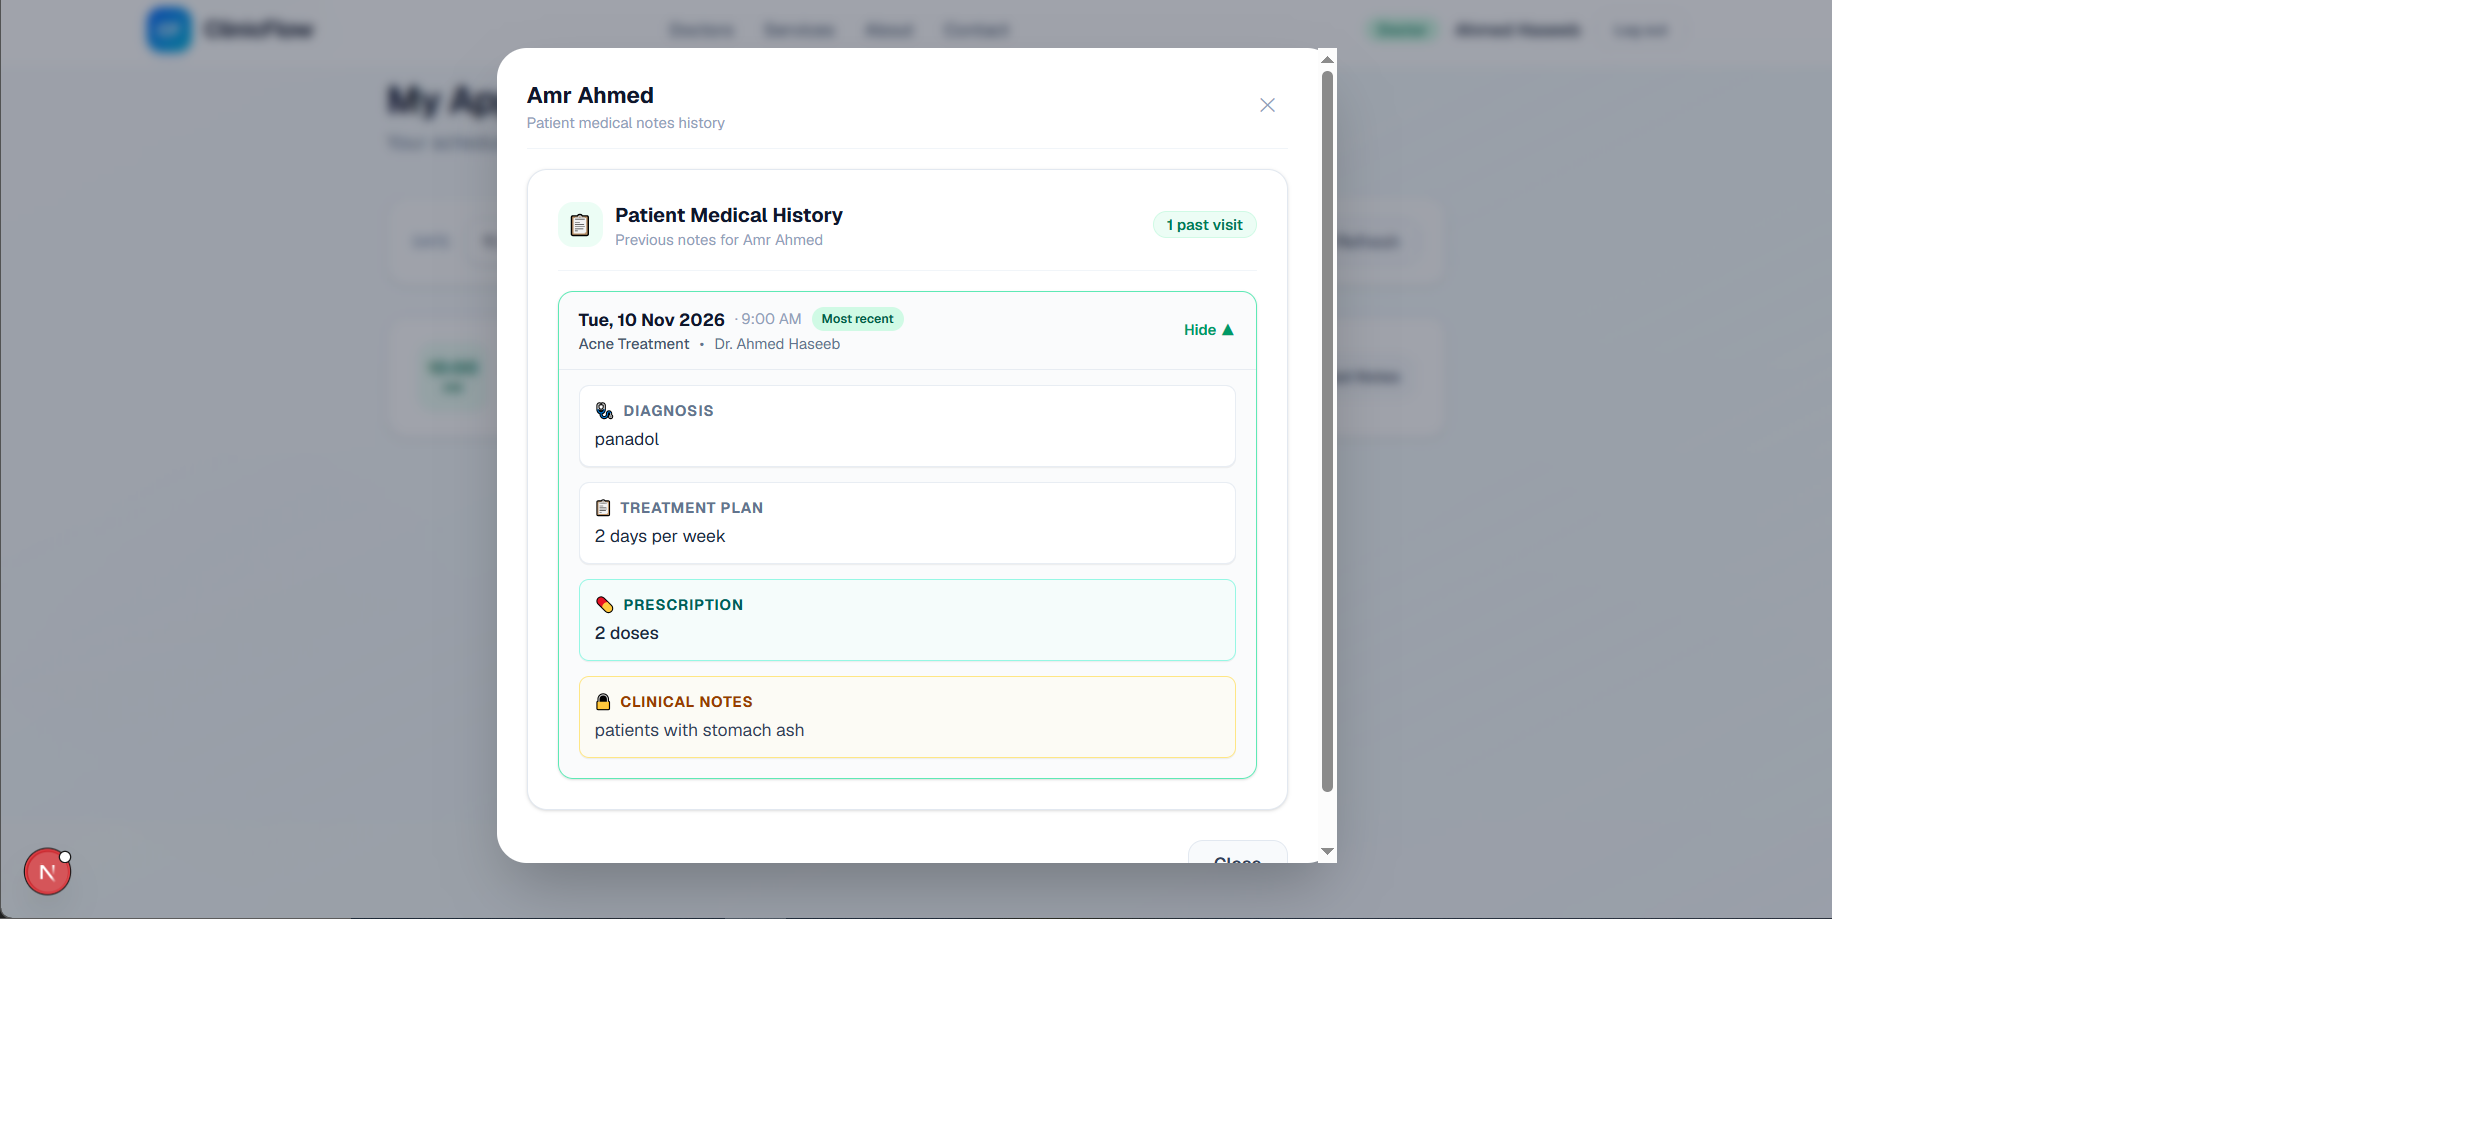
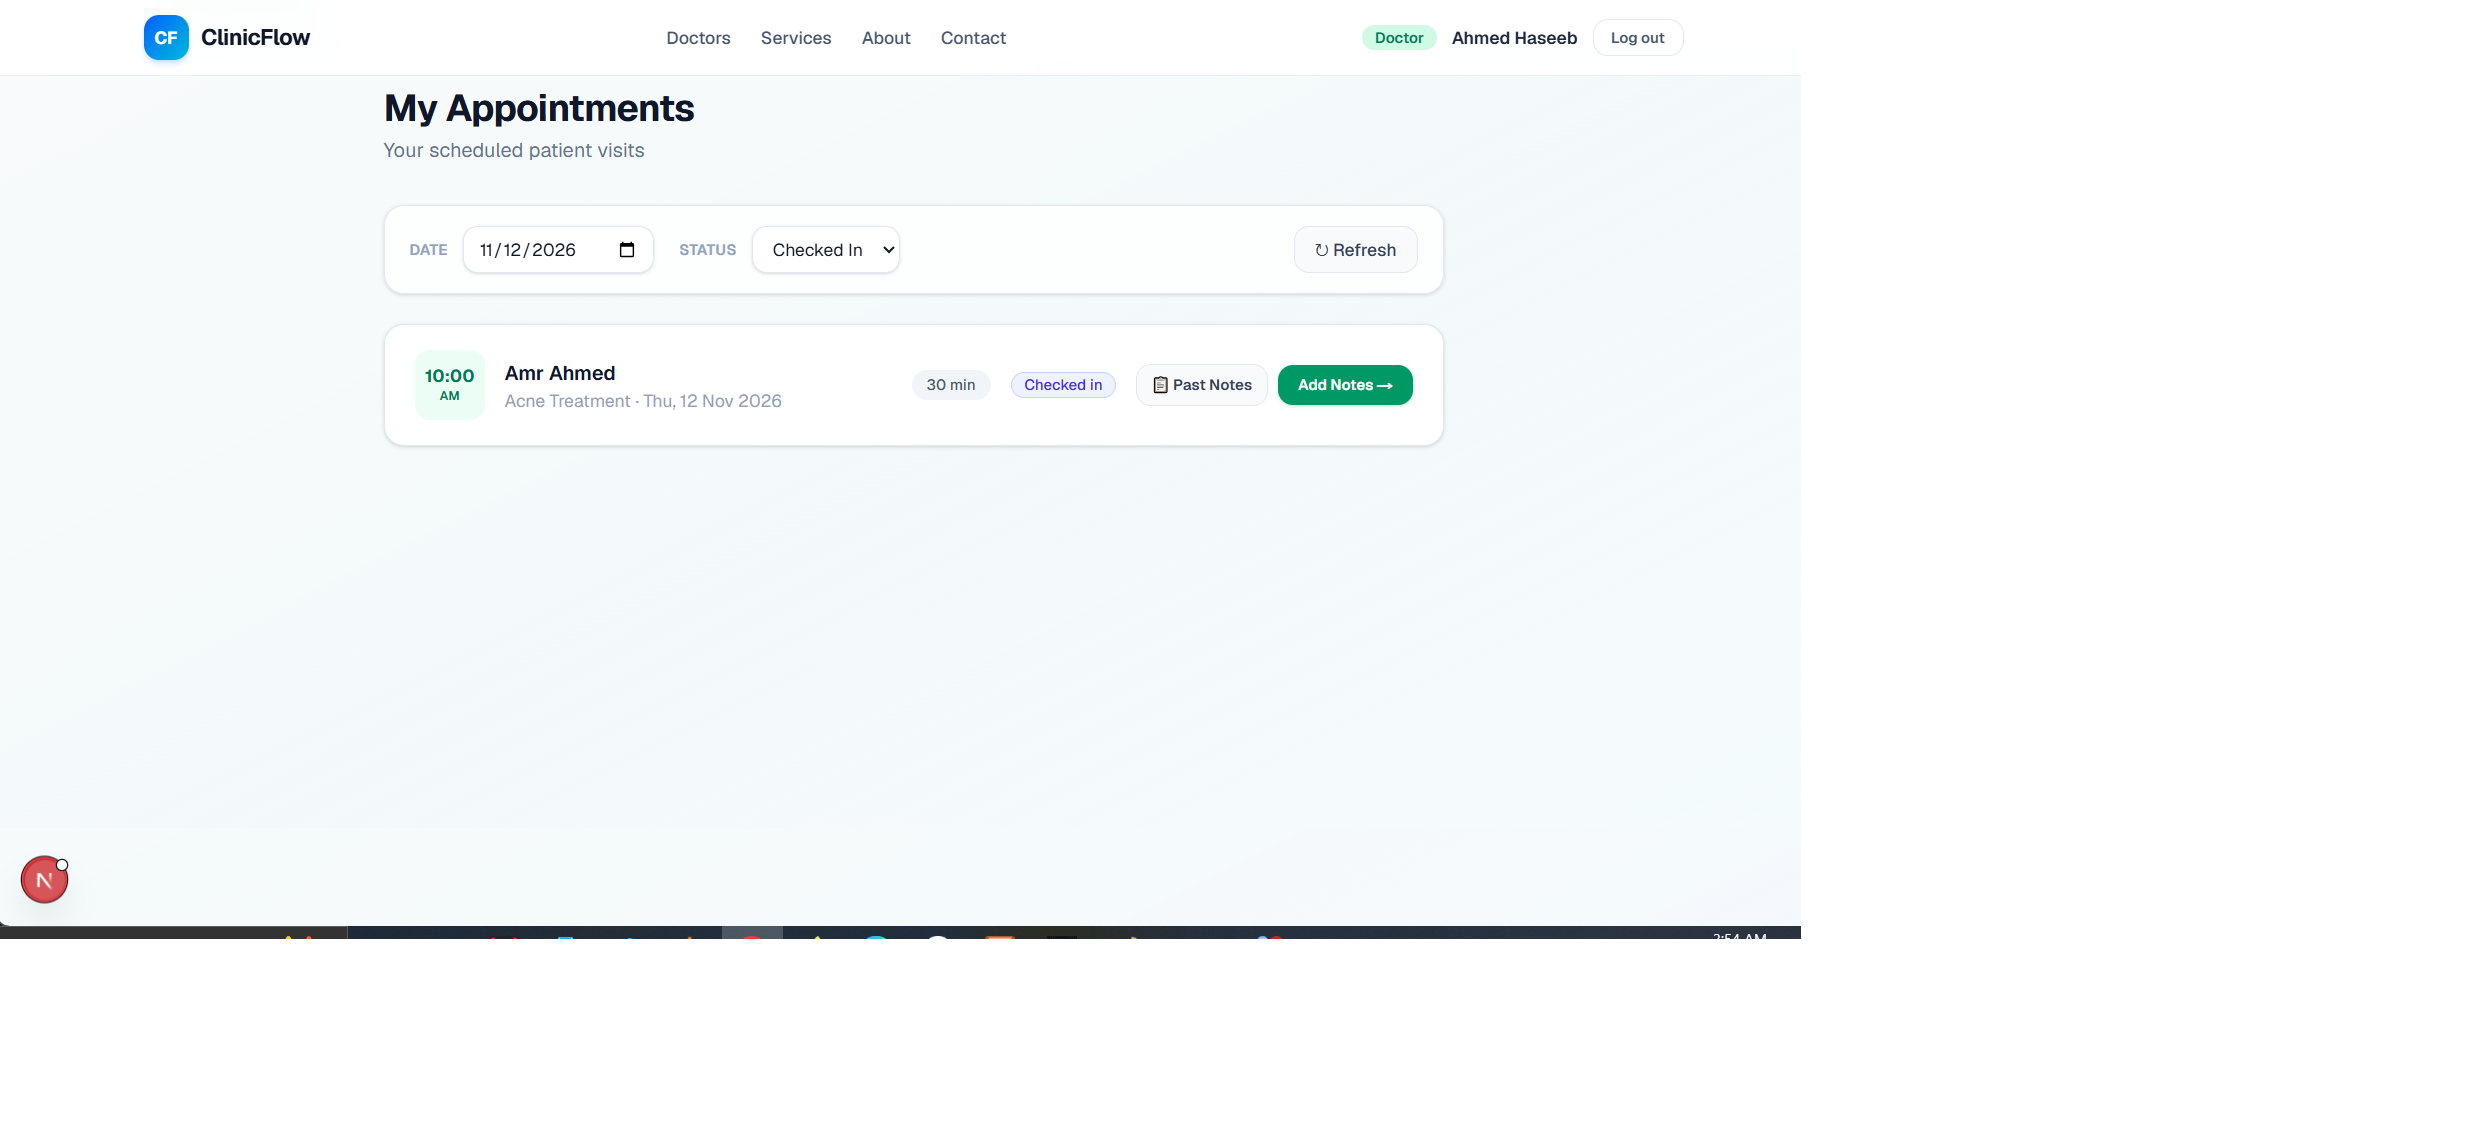
Fix screenshot order and image filenames in README to match end-to-end clinic workflow

diff --git a/README.md b/README.md
@@ -8,32 +8,36 @@ Built to model a real clinic's workflow rather than a generic CRUD app: business
 
 ### From booking to consultation
 
-| 1. Selection is kept before login | 2. Back at the booking after login |
+| 1. Selection is kept before login | 2. Appointment requested |
 |---|---|
-| ![Booking before login](docs/screenshots/booking-before-login.png) | ![Booking after login](docs/screenshots/booking-after-login.png) |
+| ![Booking before login](docs/screenshots/booking-before-login.png) | ![Appointment requested](docs/screenshots/patient-appointment-requested.png) |
 
-| 3. Secretary receives the request | 4. Secretary actions after confirming |
+| 3. Patient receives request email | 4. Secretary receives the request |
 |---|---|
-| ![Request received](docs/screenshots/secretary-request-received.png) | ![Secretary actions](docs/screenshots/secretary-actions-after-confirm.png) |
+| ![Request email](docs/screenshots/patient-email-request.png) | ![Secretary request received](docs/screenshots/secretary-request-received.png) |
 
-| 5. Patient gets the confirmation email | 6. Doctor adds notes and sees patient history |
+| 5. Secretary actions after confirming | 6. Patient gets confirmation email |
 |---|---|
-| ![Confirmation email](docs/screenshots/patient-email-confirmed.png) | ![Doctor notes](docs/screenshots/doctor-adding-and-viewing-notes.png) |
+| ![Secretary actions](docs/screenshots/secretary-actions-after-confirm.png) | ![Confirmation email](docs/screenshots/patient-email-confirmed.png) |
+
+| 7. Doctor appointments dashboard | 8. Quick-view past notes modal |
+|---|---|
+| ![Doctor appointments](docs/screenshots/doctor-appointments.png) | ![Doctor past notes modal](docs/screenshots/doctor-past-notes-modal.png) |
+
+| 9. Doctor consultation & patient history | 10. Patient appointments portal |
+|---|---|
+| ![Doctor consultation notes](docs/screenshots/doctor-adding-and-viewing-notes.png) | ![Patient appointments](docs/screenshots/patient-appointments.png) |
 
 <details>
-<summary>More screenshots (6)</summary>
+<summary>More screenshots (Authentication & Password Reset)</summary>
 
-| Patient appointments | Doctor appointments |
+| Login | Forgot password |
 |---|---|
-| ![Patient appointments](docs/screenshots/patient-appointments.png) | ![Doctor appointments](docs/screenshots/doctor-appointments.png) |
+| ![Login](docs/screenshots/login.png) | ![Forgot password](docs/screenshots/forgot-password.png) |
 
-| Doctor notes view | Login |
+| Verification code email | |
 |---|---|
-| ![Notes view](docs/screenshots/doctor-appointments-notes-view.png) | ![Login](docs/screenshots/login.png) |
-
-| Forgot password | Verification code email |
-|---|---|
-| ![Forgot password](docs/screenshots/forgot-password.png) | ![Code email](docs/screenshots/forgot-password-email-code.png) |
+| ![Code email](docs/screenshots/forgot-password-email-code.png) | |
 
 </details>
 
